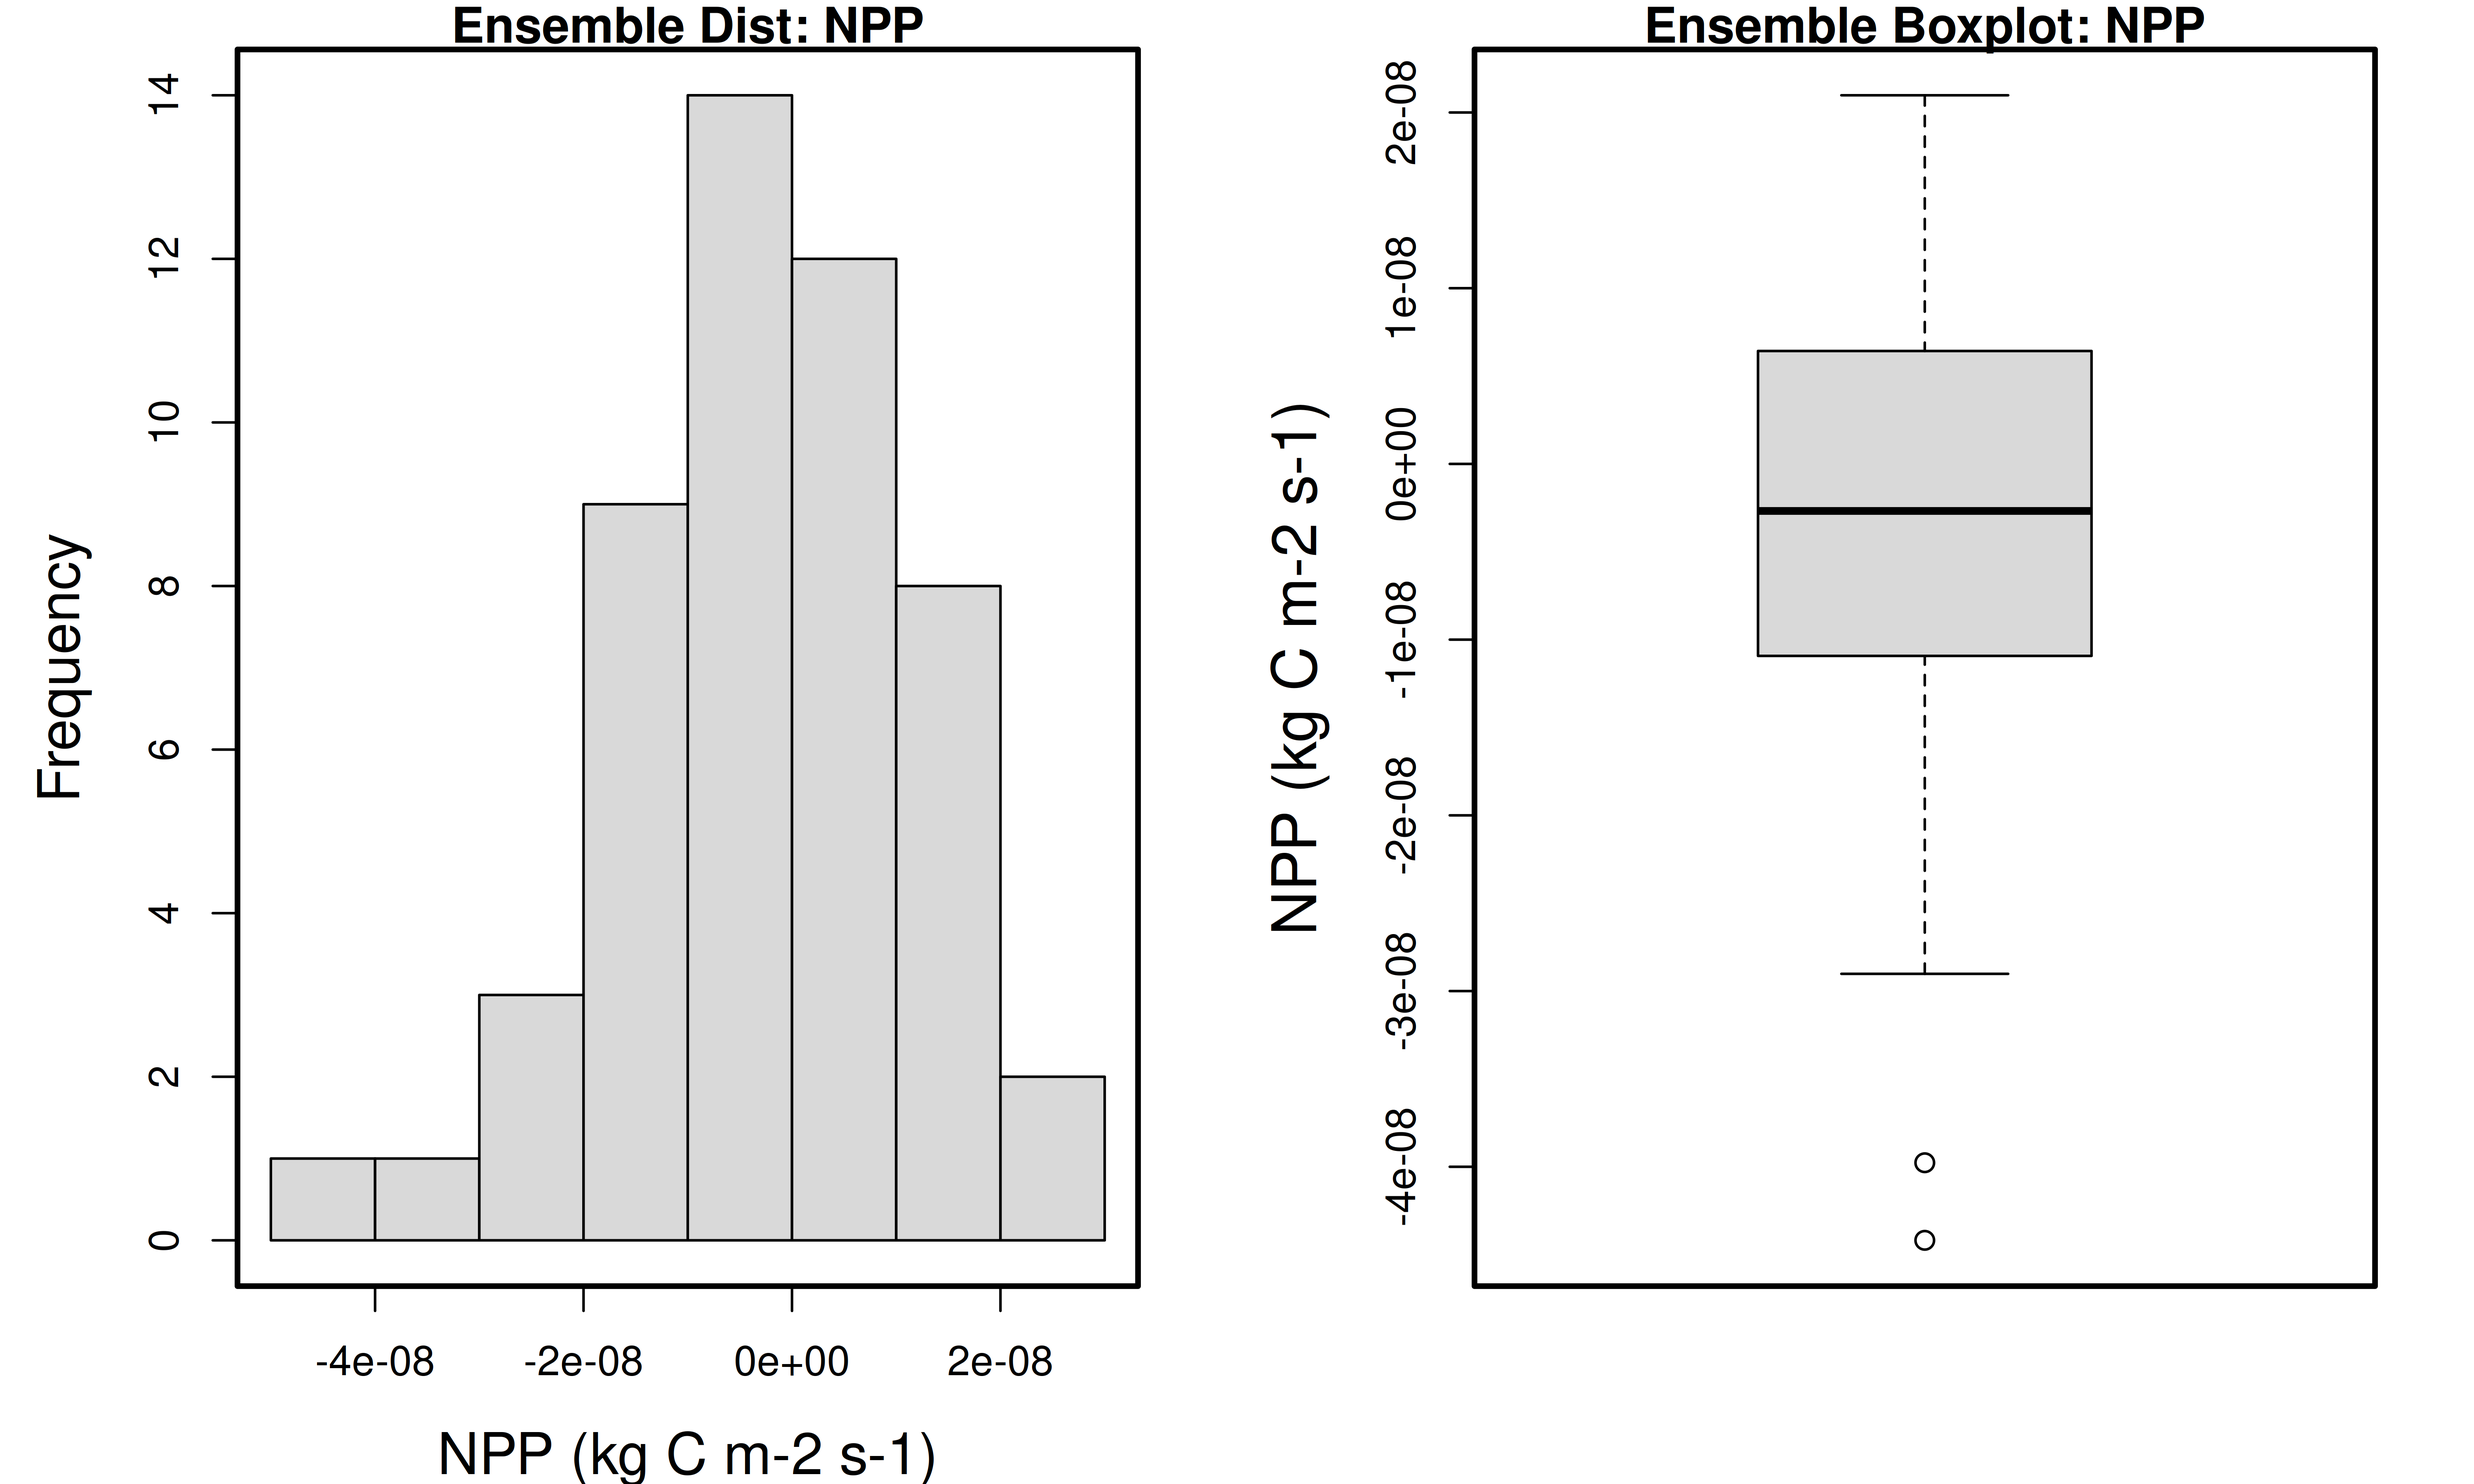
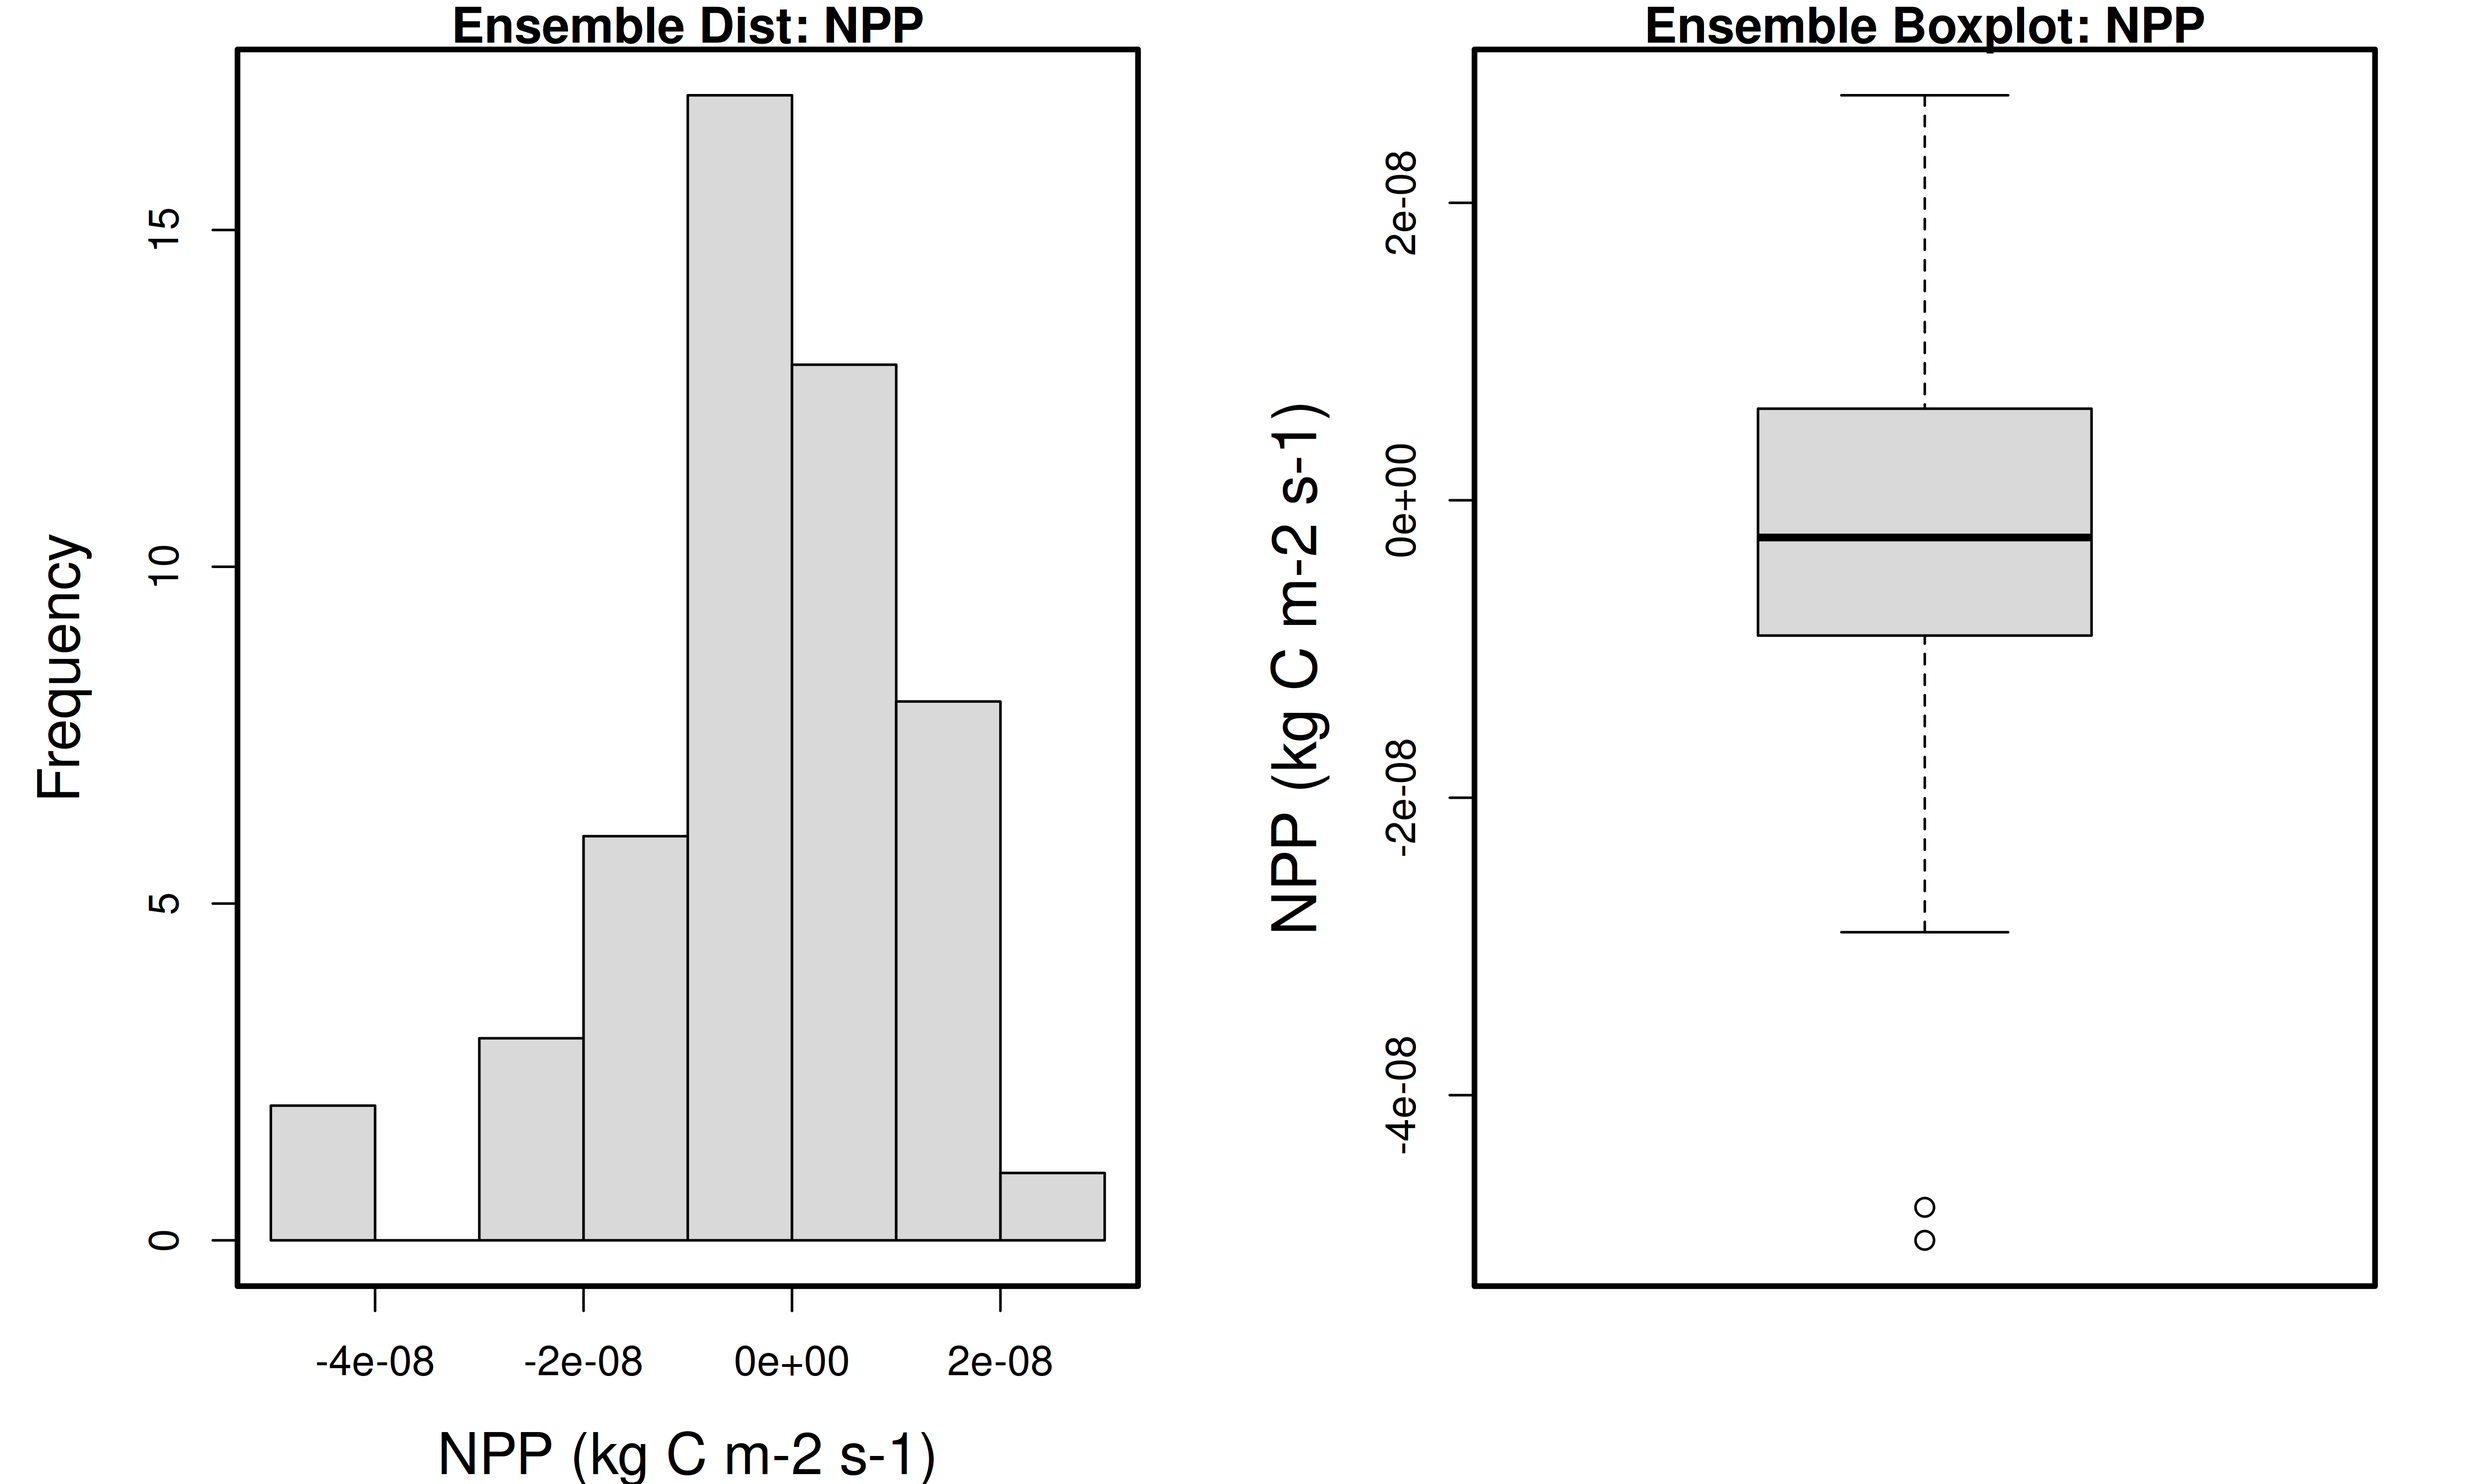
Update Quarto HTML from pecan revision 9712d31ebe74309bdb1bd71bc4e27c56abfe6354

diff --git a/develop/rendered-demo-notebooks/uncertainty.html b/develop/rendered-demo-notebooks/uncertainty.html
@@ -552,138 +552,138 @@ Error in postgresqlNewConnection(drv, ...) :
 <div class="cell-output cell-output-stdout">
 <pre><code>$coef.vars
          growth_resp_factor          leaf_turnover_rate 
-                 0.52432867                  0.87441787 
+                 0.52889531                  0.87646504 
       root_respiration_rate          root_turnover_rate 
-                 0.58275145                  0.57648942 
+                 0.57156174                  0.57289850 
                        Amax    leaf_respiration_rate_m2 
-                 0.57834935                  0.56172124 
+                 0.57443132                  0.55654879 
                         SLA                       leafC 
-                 0.79008587                  0.02594027 
+                 0.81324192                  0.02586029 
                 Vm_low_temp                    AmaxFrac 
-                 0.01103359                  0.11520866 
+                 0.01089733                  0.11546731 
                     psnTOpt       stem_respiration_rate 
-                 0.03423051                  0.58490224 
+                 0.03414779                  0.58286884 
      extinction_coefficient         half_saturation_PAR 
-                 0.13886224                  0.42906854 
+                 0.13897240                  0.42748757 
                   dVPDSlope                     dVpdExp 
-                 0.52809773                  0.28848261 
+                 0.53580863                  0.28949258 
         veg_respiration_Q10   fine_root_respiration_Q10 
-                 0.17276558                  0.32461098 
+                 0.17384322                  0.32732695 
 coarse_root_respiration_Q10 
-                 0.32382188 
+                 0.32521616 
 
 $elasticities
          growth_resp_factor          leaf_turnover_rate 
-                 0.00000000                  0.03411720 
+                 0.00000000                  0.04208430 
       root_respiration_rate          root_turnover_rate 
-                -0.02326212                  0.05101841 
+                -0.02439838                  0.05377055 
                        Amax    leaf_respiration_rate_m2 
-                 7.49071118                 -1.80804202 
+                 7.66831614                 -1.86299530 
                         SLA                       leafC 
-                -0.12284817                  0.14243427 
+                -0.47474085                  0.19070157 
                 Vm_low_temp                    AmaxFrac 
-                 1.01911708                  2.49477982 
+                 1.01889360                  2.52852032 
                     psnTOpt       stem_respiration_rate 
-                 1.07344287                 -1.39968878 
+                 1.07349468                 -1.42784833 
      extinction_coefficient         half_saturation_PAR 
-                -0.56831400                 -1.16763347 
+                -0.57665361                 -1.18520864 
                   dVPDSlope                     dVpdExp 
-                -0.18731824                  0.09184860 
+                -0.18647344                  0.09438333 
         veg_respiration_Q10   fine_root_respiration_Q10 
-                 9.26290830                  0.08137710 
+                 9.53669154                  0.08521910 
 coarse_root_respiration_Q10 
-                -0.23222740 
+                -0.23691260 
 
 $sensitivities
          growth_resp_factor          leaf_turnover_rate 
-               0.000000e+00                1.429468e-10 
+               0.000000e+00                1.744904e-10 
       root_respiration_rate          root_turnover_rate 
-              -2.250022e-12                4.788902e-11 
+              -2.281188e-12                4.915510e-11 
                        Amax    leaf_respiration_rate_m2 
-               6.688072e-10               -1.905675e-09 
+               6.641069e-10               -1.927725e-09 
                         SLA                       leafC 
-              -1.420786e-11                1.349379e-11 
+              -4.573419e-11                1.774365e-11 
                 Vm_low_temp                    AmaxFrac 
-              -8.645673e-10                1.559950e-08 
+              -8.656669e-10                1.553777e-08 
                     psnTOpt       stem_respiration_rate 
-               5.366561e-10               -1.357620e-10 
+               5.380106e-10               -1.357541e-10 
      extinction_coefficient         half_saturation_PAR 
-              -5.442584e-09               -3.925188e-10 
+              -5.425449e-09               -3.898799e-10 
                   dVPDSlope                     dVpdExp 
-              -6.718007e-09                2.174508e-10 
+              -6.602898e-09                2.208145e-10 
         veg_respiration_Q10   fine_root_respiration_Q10 
-               1.531755e-08                1.196365e-10 
+               1.527056e-08                1.237384e-10 
 coarse_root_respiration_Q10 
-              -3.488726e-10 
+              -3.514392e-10 
 
 $variances
          growth_resp_factor          leaf_turnover_rate 
-               6.739980e-50                1.920793e-20 
+               6.257576e-50                2.827530e-20 
       root_respiration_rate          root_turnover_rate 
-               4.232862e-21                1.902984e-20 
+               4.320495e-21                2.010257e-20 
                        Amax    leaf_respiration_rate_m2 
-               5.953900e-17                2.856866e-17 
+               5.863991e-17                2.894771e-17 
                         SLA                       leafC 
-               5.503727e-21                3.134475e-22 
+               6.081784e-20                5.389096e-22 
                 Vm_low_temp                    AmaxFrac 
-               6.787549e-18                1.815417e-18 
+               6.639480e-18                1.803489e-18 
                     psnTOpt       stem_respiration_rate 
-               2.951337e-17                1.545435e-17 
+               2.950566e-17                1.535541e-17 
      extinction_coefficient         half_saturation_PAR 
-               1.428454e-19                6.791071e-18 
+               1.419565e-19                6.715191e-18 
                   dVPDSlope                     dVpdExp 
-               2.157673e-19                1.581565e-20 
+               2.122045e-19                1.621215e-20 
         veg_respiration_Q10   fine_root_respiration_Q10 
-               2.797378e-17                1.543277e-20 
+               2.812197e-17                1.658577e-20 
 coarse_root_respiration_Q10 
-               1.306632e-19 
+               1.320186e-19 
 
 $partial.variances
          growth_resp_factor          leaf_turnover_rate 
-               3.807640e-34                1.085120e-04 
+               3.548146e-34                1.603255e-04 
       root_respiration_rate          root_turnover_rate 
-               2.391285e-05                1.075059e-04 
+               2.449790e-05                1.139848e-04 
                        Amax    leaf_respiration_rate_m2 
-               3.363557e-01                1.613939e-01 
+               3.324977e-01                1.641382e-01 
                         SLA                       leafC 
-               3.109239e-05                1.770770e-06 
+               3.448469e-04                3.055704e-06 
                 Vm_low_temp                    AmaxFrac 
-               3.834513e-02                1.025590e-02 
+               3.764692e-02                1.022608e-02 
                     psnTOpt       stem_respiration_rate 
-               1.667309e-01                8.730680e-02 
+               1.673018e-01                8.706764e-02 
      extinction_coefficient         half_saturation_PAR 
-               8.069814e-04                3.836503e-02 
+               8.049164e-04                3.807621e-02 
                   dVPDSlope                     dVpdExp 
-               1.218942e-03                8.934791e-05 
+               1.203234e-03                9.192548e-05 
         veg_respiration_Q10   fine_root_respiration_Q10 
-               1.580332e-01                8.718489e-05 
+               1.594561e-01                9.404400e-05 
 coarse_root_respiration_Q10 
-               7.381602e-04 
+               7.485665e-04 
 
        growth_resp_factor leaf_turnover_rate root_respiration_rate
-15.866       4.786733e-09       4.545038e-09          4.875626e-09
+15.866       4.703027e-09       4.437519e-09          4.791698e-09
 50                     NA                 NA                    NA
-84.134       4.786733e-09       4.807162e-09          4.721368e-09
+84.134       4.703027e-09       4.757545e-09          4.636144e-09
        root_turnover_rate          Amax leaf_respiration_rate_m2          SLA
-15.866       4.527392e-09 -7.337141e-09             1.003596e-08 8.072759e-10
+15.866       4.434546e-09 -7.374171e-09             1.003776e-08 7.775817e-10
 50                     NA            NA                       NA           NA
-84.134       4.854028e-09  1.092466e-08            -7.299572e-10 6.866651e-10
+84.134       4.770163e-09  1.071219e-08            -9.049598e-10 3.835572e-10
               leafC  Vm_low_temp     AmaxFrac       psnTOpt
-15.866 4.774306e-09 7.087634e-09 3.107006e-09 -5.206784e-09
+15.866 4.683927e-09 6.947670e-09 3.013022e-09 -5.194925e-09
 50               NA           NA           NA            NA
-84.134 4.809723e-09 1.875664e-09 6.289402e-09  7.619283e-09
+84.134 4.730571e-09 1.808939e-09 6.193869e-09  7.641767e-09
        stem_respiration_rate extinction_coefficient half_saturation_PAR
-15.866          9.376708e-09           5.239482e-09        8.277107e-09
+15.866          9.270928e-09           5.143854e-09        8.178380e-09
 50                        NA                     NA                  NA
-84.134          1.041034e-10           4.341163e-09        2.131021e-09
+84.134          2.023882e-12           4.253915e-09        2.060723e-09
           dVPDSlope      dVpdExp veg_respiration_Q10 fine_root_respiration_Q10
-15.866 5.246408e-09 4.598291e-09       -2.983992e-09              4.556643e-09
+15.866 5.157705e-09 4.511106e-09       -3.050654e-09              4.464905e-09
 50               NA           NA                  NA                        NA
-84.134 4.149780e-09 4.895264e-09        9.538998e-09              4.850928e-09
+84.134 4.063765e-09 4.811526e-09        9.521858e-09              4.769910e-09
        coarse_root_respiration_Q10
-15.866                5.233379e-09
+15.866                5.137687e-09
 50                              NA
-84.134                4.378415e-09</code></pre>
+84.134                4.280067e-09</code></pre>
 </div>
 </div>
 </section>

diff --git a/develop/rendered-demo-notebooks/run_pecan.html b/develop/rendered-demo-notebooks/run_pecan.html
@@ -417,7 +417,7 @@ install.packages(c('PEcAn.all', 'PEcAn.SIPNET'))
   ..$ settings.updated         : logi TRUE
   ..$ checked                  : logi TRUE
  $ workflow     :List of 1
-  ..$ id: chr "2026-03-01-11-11-08"
+  ..$ id: chr "2026-03-01-12-38-28"
  $ rundir       : chr "/work/documentation/tutorials/Demo_1_Basic_Run/demo_outdir/run"
  $ modeloutdir  : chr "/work/documentation/tutorials/Demo_1_Basic_Run/demo_outdir/out"
  - attr(*, "class")= chr [1:3] "Settings" "SafeList" "list"</code></pre>
